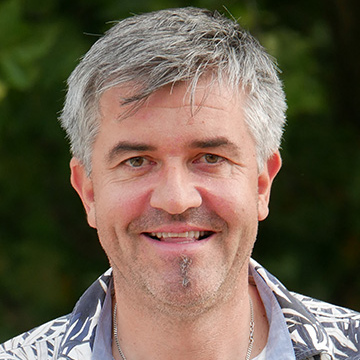
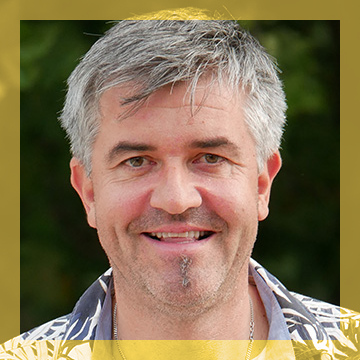
bonus&legendary Bilder haben jetzt einen Rahmen + fixes

Changed region(s): [[0.0, 0.0, 1.0, 1.0]]

diff --git a/slots/web/src/js/Slot.js b/slots/web/src/js/Slot.js
@@ -5,37 +5,50 @@ const winFrequency = 40; // %
 const default_symbol = "default";
 const winningPatterns = [
     [
-        ["+", "+", "+", "+", "+"]
+        ["+", "+", "+", "+", "+"],
+        10
+    ],
+    [
+        ["+", "+", "+", "+", "+"],
+        ["+", "+", "+", "+", "+"],
+        ["+", "+", "+", "+", "+"],
+        100
     ],
     [
         ["+", "-", "-", "-", "-"],
         ["-", "+", "+", "+", "-"],
-        ["-", "-", "-", "-", "+"]
+        ["-", "-", "-", "-", "+"],
+        5
     ],
     [
         ["-", "-", "-", "-", "+"],
         ["-", "+", "+", "+", "-"],
-        ["+", "-", "-", "-", "-"]
+        ["+", "-", "-", "-", "-"],
+        5
     ],
     [
         ["+", "-", "-", "-", "+"],
         ["-", "+", "+", "+", "-"],
-        ["+", "-", "-", "-", "+"]
+        ["+", "-", "-", "-", "+"],
+        10
     ],
     [
         ["+", "-", "-"],
         ["-", "+", "-"],
-        ["-", "-", "+"]
+        ["-", "-", "+"],
+        2
     ],
     [
         ["-", "-", "+"],
         ["-", "+", "-"],
-        ["+", "-", "-"]
+        ["+", "-", "-"],
+        1
     ],
     [
         ["+"],
         ["+"],
-        ["+"]
+        ["+"],
+        1
     ],
 
     // Add more patterns as needed
@@ -81,6 +94,7 @@ export default class Slot {
 
         this.currentBalance = 0;
         this.freeToPlay = false;
+        this.isSpinning = false;
     }
 
     setBalance(balance) {
@@ -101,7 +115,6 @@ export default class Slot {
 
         this.currentSymbols = this.nextSymbols;
         this.nextSymbols = this.#convertScreenToSlots(this.#generateScreen());
-        console.log(this.nextSymbols)
         this.onSpinStart(this.nextSymbols);
 
         return Promise.all(
@@ -159,7 +172,10 @@ export default class Slot {
         const winFrequencyNormalized = winFrequency / 100;
         if (Math.random() < winFrequencyNormalized) { // jetzt gewinnt der spieler
             const patterns = winningPatterns;
-            return patterns[Math.floor(Math.random() * patterns.length)];
+            const selectedPattern = patterns[Math.floor(Math.random() * patterns.length)];
+            const winAmount = selectedPattern.pop();
+            console.log(winAmount);
+            return selectedPattern;
         }
         return [[]];
     }
@@ -183,19 +199,19 @@ export default class Slot {
             slots.push(newRow);
             newRow = [];
         }
-
         if (newRow.length > 0) slots.push(newRow);
         return slots;
     }
 
     onSpinStart(symbols) {
         this.spinButton.disabled = true;
-
+        this.isSpinning = true;
         this.config.onSpinStart?.(symbols);
     }
 
     onSpinEnd(symbols) {
         this.spinButton.disabled = false;
+        this.isSpinning = false;
 
         this.config.onSpinEnd?.(symbols);
 

diff --git a/slots/web/src/js/index.js b/slots/web/src/js/index.js
@@ -1,13 +1,12 @@
 import Slot from "./Slot.js";
 
-const windowTitle  = document.title;
+const windowTitle = document.title;
 const webSocketPort = 8085
 const MAX_COIN_AUFLADUNG = 10
 
 const config = {
     inverted: false, // true: reels spin from top to bottom; false: reels spin from bottom to top
     onSpinStart: (symbols) => {
-        console.log("onSpinStart", symbols);
         updateUI();
     },
     onSpinEnd: (symbols) => {
@@ -37,11 +36,10 @@ socket.onmessage = function (event) {
     }
     if (event.data.toString().startsWith('ftpon')) {
         slot.freeToPlay = true;
-        document.title = `${windowTitle} ~ FTP`;
     }
     if (event.data.toString().startsWith('ftpoff')) {
         slot.freeToPlay = false;
-        document.title = `${windowTitle}`;
+
     }
     updateUI();
 };
@@ -58,8 +56,13 @@ function updateUI() {
     document.getElementById('bal').innerText = slot.currentBalance.toFixed(2);
     document.getElementById('jp').innerHTML = slot.currentBalance.toFixed(2);
     if (slot.freeToPlay === true) {
+        slot.spinButton.disabled = false;
         document.getElementById('cost').innerHTML = 'FTP ~ &infin;';
+        document.title = `${windowTitle} ~ FTP`;
     } else {
+        slot.spinButton.disabled = slot.currentBalance < slot.config.costPerSpin;
         document.getElementById('cost').innerText = slot.config.costPerSpin.toFixed(2);
+        document.title = `${windowTitle} ~ ${slot.currentBalance.toFixed(2)}€`;
     }
+    if (slot.isSpinning === true) slot.spinButton.disabled = true;
 }
